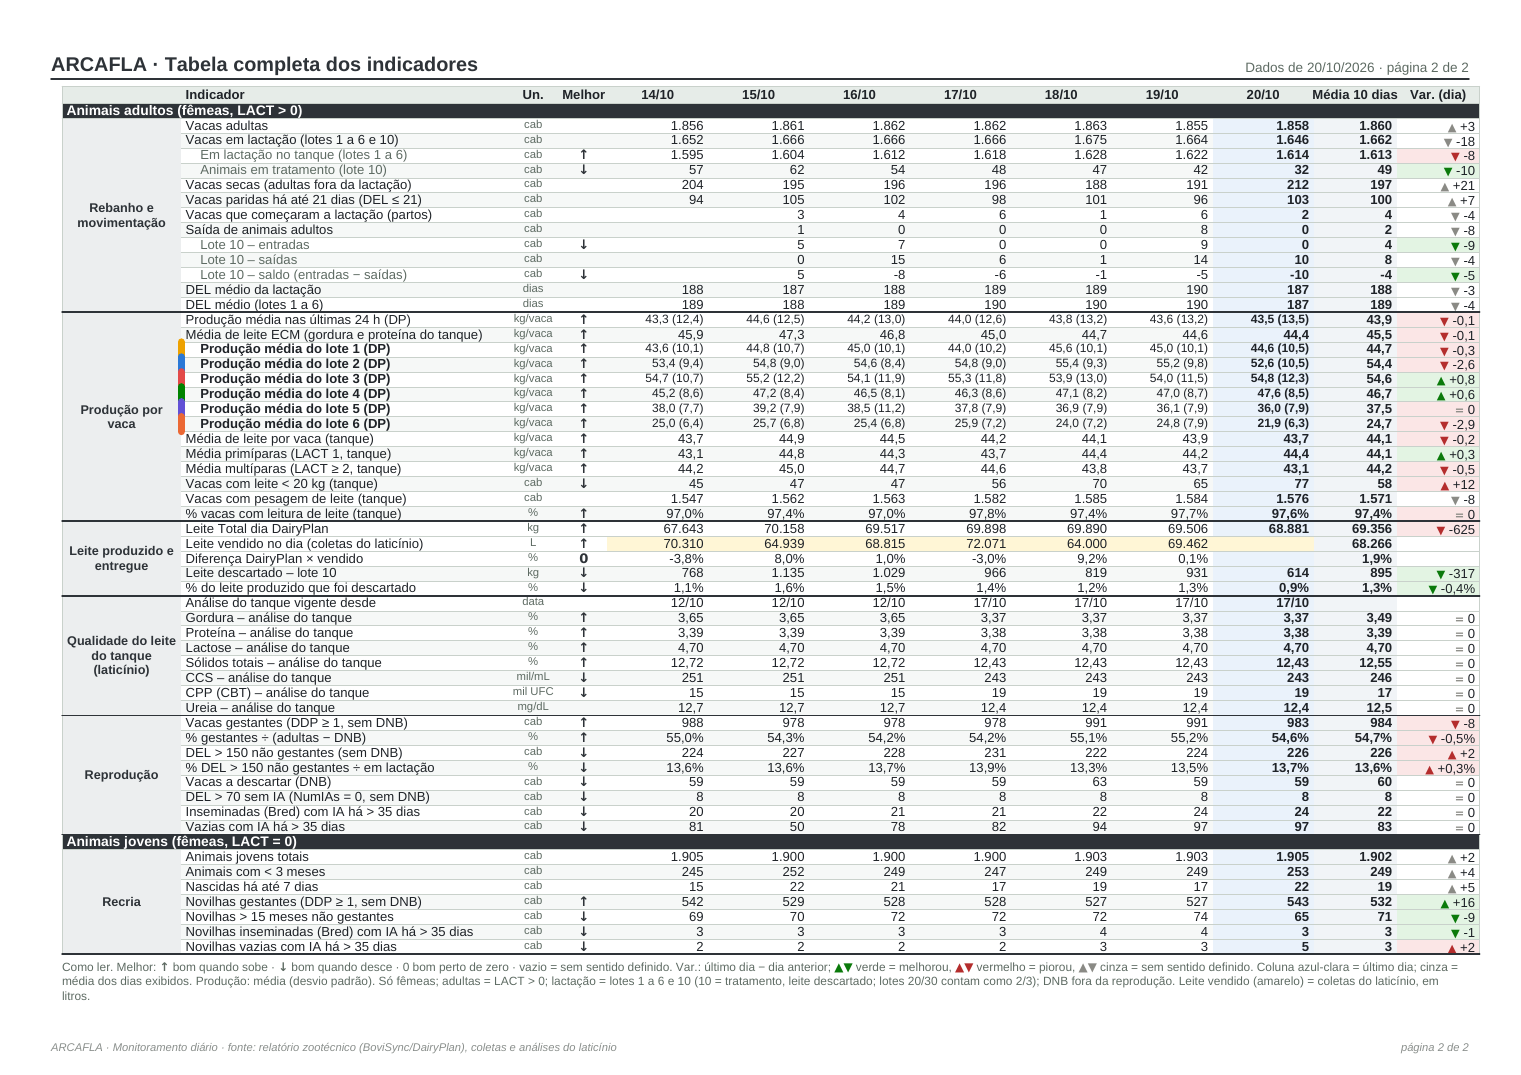
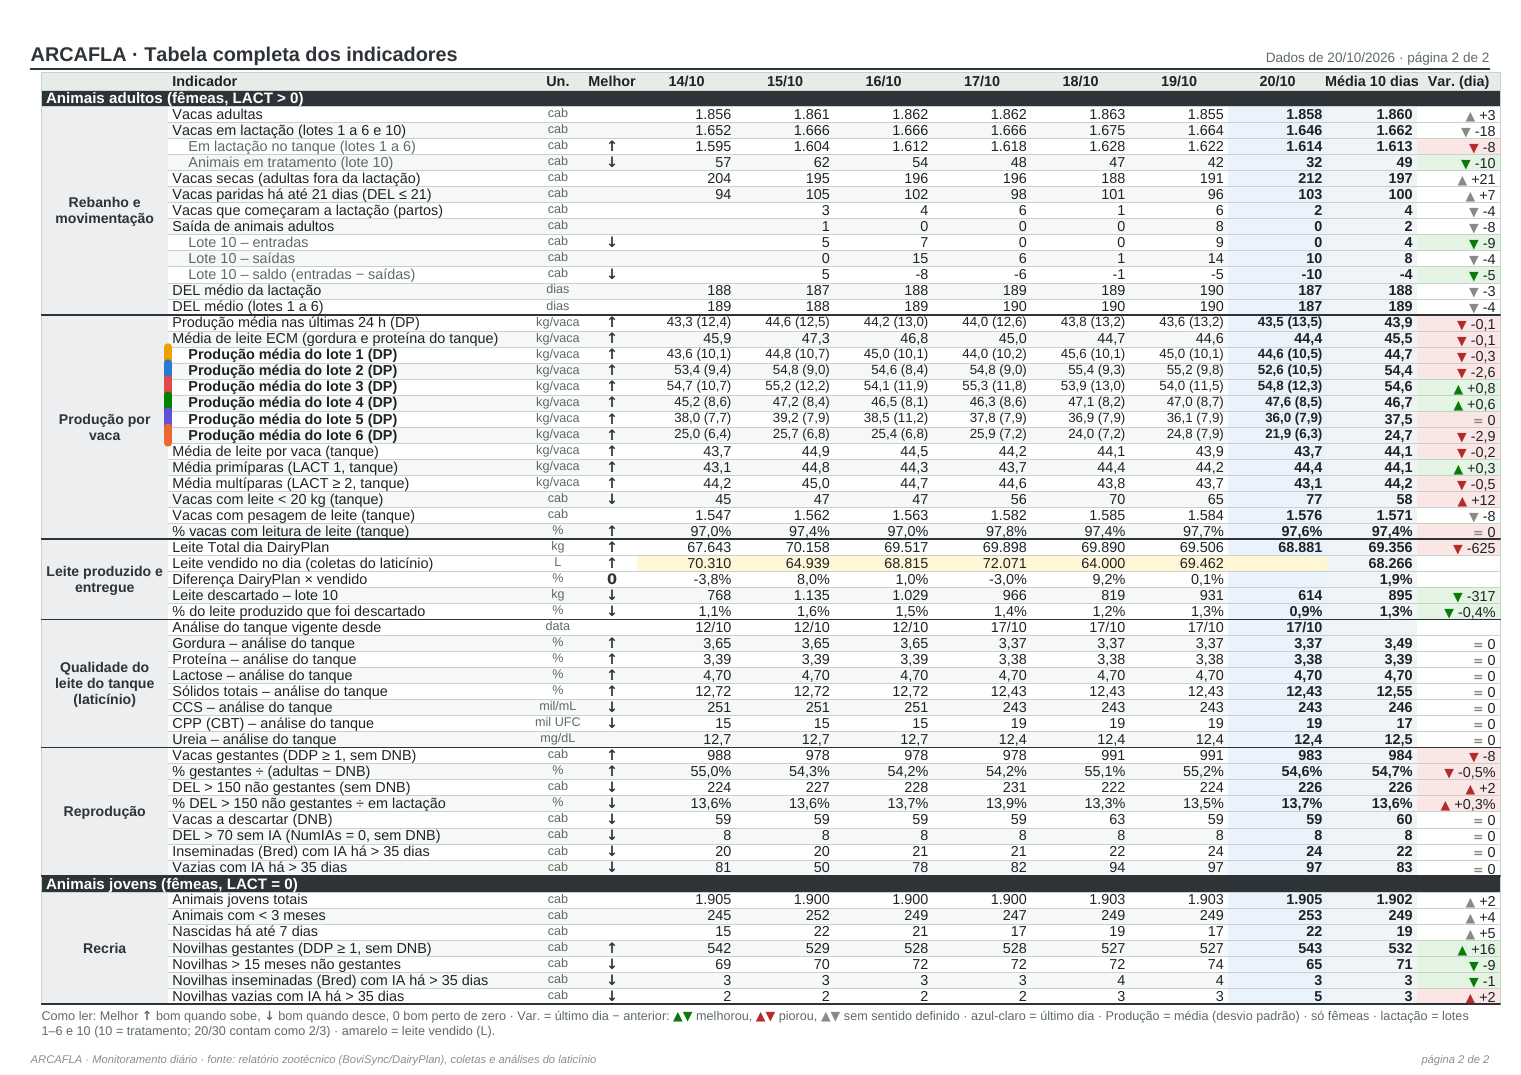
PDF ARCAFLA: fontes maiores, margens e espaços reduzidos, alertas em duas colunas
Claude-Session: https://claude.ai/code/session_01E6SmznsG4fwjxZt5rHRDBH

diff --git a/scripts/monitor_pdf.py b/scripts/monitor_pdf.py
@@ -65,9 +65,9 @@ BOM_BG = colors.HexColor("#E3F4E3")
 RUIM_BG = colors.HexColor("#FBE6E6")
 MM = 2.835
 PAG = landscape(A4)
-MARG = 10 * MM
+MARG = 6 * MM
 LARG = PAG[0] - 2 * MARG
-ALTP = PAG[1] - 2 * 7 * MM
+ALTP = PAG[1] - 2 * 5 * MM
 
 
 # ---------------------------------------------------------------- formatação
@@ -180,20 +180,20 @@ def est(nome, fonte="Lib", tam=7, cor=TINTA, lead=None, al=0):
                           alignment=al)
 
 
-st_cab = est("cab", "LibB", 17, colors.white, 19)
-st_cab2 = est("cab2", "Lib", 8.5, colors.HexColor("#C9CDD1"), 10.5)
-st_cabd = est("cabd", "LibB", 10, colors.white, 12, 2)
-st_k = est("k", "LibB", 6.6, TINTA2, 7.8)
-st_kv = est("kv", "LibB", 17, TINTA, 18.5)
-st_ks = est("ks", "Lib", 6.5, TINTA2, 7.8)
-st_gt = est("gt", "LibB", 8, TINTA, 9.5)
-st_gs = est("gs", "Lib", 6.3, TINTA2, 7.5)
-st_at = est("at", "Lib", 7.2, TINTA, 9.2)
-st_ath = est("ath", "LibB", 8, RUIM, 9.5)
+st_cab = est("cab", "LibB", 18, colors.white, 19)
+st_cab2 = est("cab2", "Lib", 9.5, colors.HexColor("#C9CDD1"), 10.5)
+st_cabd = est("cabd", "LibB", 12, colors.white, 14, 2)
+st_k = est("k", "LibB", 7.6, TINTA2, 8.8)
+st_kv = est("kv", "LibB", 20, TINTA, 21)
+st_ks = est("ks", "Lib", 7.4, TINTA2, 8.6)
+st_gt = est("gt", "LibB", 9.5, TINTA, 11)
+st_gs = est("gs", "Lib", 7.3, TINTA2, 8.6)
+st_at = est("at", "Lib", 8.4, TINTA, 10.4)
+st_ath = est("ath", "LibB", 9.5, RUIM, 11)
 st_t2 = est("t2", "LibB", 11, AZUL, 13)
 st_d2 = est("d2", "Lib", 7.5, TINTA2, 9, 2)
-st_leg = est("leg", "Lib", 6.6, TINTA2, 8)
-st_bl = est("bl", "LibB", 7, AZUL, 8, 1)
+st_leg = est("leg", "Lib", 7, TINTA2, 8.4)
+st_bl = est("bl", "LibB", 7.8, AZUL, 9, 1)
 
 
 def var_html(it, tam):
@@ -222,9 +222,12 @@ def escala(vals, zero=False, folga=0.12):
 
 
 def eixo_x(d, x0, y0, larg, n, rotulos):
+    passo = 1 if larg / n >= 30 else 2  # em gráficos estreitos, uma data sim, outra não
     for i, r in enumerate(rotulos):
+        if (n - 1 - i) % passo:
+            continue
         x = x0 + (larg * (i + 0.5) / n)
-        d.add(String(x, y0 - 9, r, fontName="Lib", fontSize=6, fillColor=TINTA3, textAnchor="middle"))
+        d.add(String(x, y0 - 10, r, fontName="Lib", fontSize=7, fillColor=TINTA2, textAnchor="middle"))
 
 
 def grade_y(d, x0, y0, larg, alt, lo, hi, nf, ticks=3):
@@ -232,7 +235,7 @@ def grade_y(d, x0, y0, larg, alt, lo, hi, nf, ticks=3):
         v = lo + (hi - lo) * t / ticks
         y = y0 + alt * t / ticks
         d.add(Line(x0, y, x0 + larg, y, strokeColor=GRADE, strokeWidth=0.5))
-        d.add(String(x0 - 3, y - 2, fmt(v, nf), fontName="Lib", fontSize=5.8, fillColor=TINTA3, textAnchor="end"))
+        d.add(String(x0 - 3, y - 2, fmt(v, nf), fontName="Lib", fontSize=6.8, fillColor=TINTA2, textAnchor="end"))
 
 
 def grafico_linhas(series, w, h, nf, nf_rot=None, zero=False):
@@ -258,7 +261,7 @@ def grafico_linhas(series, w, h, nf, nf_rot=None, zero=False):
         if rotulos[i][1] - rotulos[i - 1][1] < 8:
             rotulos[i][1] = rotulos[i - 1][1] + 8
     for x, y, txt in rotulos:
-        d.add(String(x0 + larg + 4, y - 2, txt, fontName="LibB", fontSize=6.6, fillColor=TINTA))
+        d.add(String(x0 + larg + 4, y - 2.5, txt, fontName="LibB", fontSize=8, fillColor=TINTA))
     return d
 
 
@@ -272,7 +275,7 @@ def grafico_barras(rotulos, vals, w, h, nf, cor=S1, erros=None, destaque_ult=Fal
     bw = larg / n * 0.56
     for i, v in enumerate(vals):
         cx = x0 + larg * (i + 0.5) / n
-        d.add(String(cx, y0 - 9, rotulos[i], fontName="Lib", fontSize=6, fillColor=TINTA3, textAnchor="middle"))
+        d.add(String(cx, y0 - 10, rotulos[i], fontName="Lib", fontSize=7, fillColor=TINTA2, textAnchor="middle"))
         if v is None:
             continue
         c = (cores[i] if cores else cor)
@@ -286,7 +289,7 @@ def grafico_barras(rotulos, vals, w, h, nf, cor=S1, erros=None, destaque_ult=Fal
             d.add(Line(cx, y0 + hb - e, cx, y0 + hb + e, strokeColor=TINTA2, strokeWidth=0.7))
             d.add(Line(cx - 2.5, y0 + hb + e, cx + 2.5, y0 + hb + e, strokeColor=TINTA2, strokeWidth=0.7))
             topo_txt = y0 + hb + e + 2
-        d.add(String(cx, topo_txt, fmt(v, nf), fontName="LibB", fontSize=6.4, fillColor=TINTA, textAnchor="middle"))
+        d.add(String(cx, topo_txt, fmt(v, nf), fontName="LibB", fontSize=8, fillColor=TINTA, textAnchor="middle"))
     return d
 
 
@@ -351,14 +354,14 @@ def cartao(titulo, rot, extra, w):
         valor += f' <font size="7" color="#5E6B63">({dias[k]:%d/%m})</font>'
     j = juizo(it["melhor"], it["var"])
     l2 = var_html(it, 7.5)
-    l2 = (l2 + " vs dia anterior") if l2 else '<font color="#8A8A85">sem dia anterior</font>'
+    l2 = (l2 + " vs ontem") if l2 else '<font color="#8A8A85">sem dia anterior</font>'
     if it["media"] not in (None, ""):
-        l2 += f' · média {fmt(it["media"], it["mfmt"])}'
+        l2 += f' · méd. {fmt(it["media"], it["mfmt"])}'
     if extra:
         l2 += f"<br/>{extra}"
     corpo = Table([[Paragraph(titulo.upper(), st_k)], [Paragraph(valor, st_kv)], [Paragraph(l2, st_ks)],
                    [sparkline([num(v) for v in it["vals"]], w - 12, 13, cor_juizo(j))]],
-                  colWidths=[w - 4], rowHeights=[9, 19, 17, 14])
+                  colWidths=[w - 4], rowHeights=[10, 22, 20, 14])
     corpo.setStyle(TableStyle([("LEFTPADDING", (0, 0), (-1, -1), 6), ("RIGHTPADDING", (0, 0), (-1, -1), 2),
                                ("TOPPADDING", (0, 0), (-1, -1), 0), ("BOTTOMPADDING", (0, 0), (-1, -1), 0),
                                ("VALIGN", (0, 0), (-1, -1), "MIDDLE")]))
@@ -379,17 +382,17 @@ CW = LARG / 6
 cards = [
     cartao("Vacas em lactação", "Vacas em lactação (lotes 1 a 6 e 10)",
            f'no tanque: {v_ult("Em lactação no tanque (lotes 1 a 6)", "0")}', CW),
-    cartao("Produção média 24 h (kg/vaca)", "Produção média nas últimas 24 h (DP)",
+    cartao("Produção 24 h (kg/vaca)", "Produção média nas últimas 24 h (DP)",
            f'ECM: <b>{v_ult("Média de leite ECM (gordura e proteína do tanque)", "0.0")} kg</b>', CW),
     cartao("DairyPlan × leite vendido", "Diferença DairyPlan × vendido", dif_txt, CW),
-    cartao("Vacas gestantes (sem DNB)", "% gestantes ÷ (adultas − DNB)",
+    cartao("Gestantes (sem DNB)", "% gestantes ÷ (adultas − DNB)",
            f'{v_ult("Vacas gestantes (DDP ≥ 1, sem DNB)", "0")} vacas gestantes', CW),
     cartao("Em tratamento (lote 10)", "Animais em tratamento (lote 10)",
            f'leite descartado: {v_ult("Leite descartado – lote 10", "#,##0")} kg', CW),
     cartao("Vazias com IA há > 35 dias", "Vazias com IA há > 35 dias",
            f'inseminadas há > 35 dias: {v_ult("Inseminadas (Bred) com IA há > 35 dias", "0")}', CW),
 ]
-painel = Table([cards], colWidths=[CW] * 6, rowHeights=[64])
+painel = Table([cards], colWidths=[CW] * 6, rowHeights=[70])
 painel.setStyle(TableStyle([("BOX", (0, 0), (-1, -1), 0.6, LINHA), ("INNERGRID", (0, 0), (-1, -1), 0.6, LINHA),
                             ("BACKGROUND", (0, 0), (-1, -1), colors.white), ("VALIGN", (0, 0), (-1, -1), "TOP"),
                             ("LEFTPADDING", (0, 0), (-1, -1), 1), ("RIGHTPADDING", (0, 0), (-1, -1), 1),
@@ -397,7 +400,7 @@ painel.setStyle(TableStyle([("BOX", (0, 0), (-1, -1), 0.6, LINHA), ("INNERGRID",
 
 # ---------------------------------------------------------------- página 1: gráficos
 G1W, G2W = LARG * 0.58 - 3, LARG * 0.42 - 3
-GH1 = 150
+GH1 = 172
 g_prod = caixa("Produção por vaca nos últimos dias",
                legenda_series([("Produção média 24 h", S1), ("Leite ECM (gordura e proteína do tanque)", S2)])
                + " · kg/vaca",
@@ -414,7 +417,7 @@ g_lote = caixa(f"Produção por lote em {ultimo:%d/%m}",
                G2W)
 
 G3W = LARG / 4 - 4.5
-GH2 = 122
+GH2 = 140
 dp_s, vd_s = serie("Leite Total dia DairyPlan"), serie("Leite vendido no dia (coletas do laticínio)")
 dif = itens.get("Diferença DairyPlan × vendido")
 dif_med = fmt(dif["media"], dif["mfmt"]) if dif and dif["media"] not in (None, "") else "–"
@@ -430,7 +433,7 @@ g_20 = caixa("Vacas com leite abaixo de 20 kg",
 g_gest = caixa("Vacas gestantes (% sem DNB)", "Gestantes ÷ (adultas − DNB) · bom quando sobe",
                grafico_linhas([("gest", serie("% gestantes ÷ (adultas − DNB)"), S1)], G3W - 10, GH2, "0.0%"), G3W)
 g_rep = caixa("Atrasos reprodutivos",
-              legenda_series([("Vazias com IA > 35 dias", S2), ("DEL > 150 não gestantes", S1)]) + " · cab",
+              legenda_series([("Vazias IA > 35 d", S2), ("DEL > 150 não gest.", S1)]),
               grafico_linhas([("vaz", serie("Vazias com IA há > 35 dias"), S2),
                               ("ng", serie("DEL > 150 não gestantes (sem DNB)"), S1)], G3W - 10, GH2, "0"), G3W)
 
@@ -458,10 +461,15 @@ def atencao(max_n=6):
 
 
 at = atencao()
-txt_at = "<br/>".join(at) if at else "Nenhum indicador piorou em relação ao dia anterior."
-quadro_at = Table([[Paragraph("Atenção hoje – o que mais piorou", st_ath)], [Paragraph(txt_at, st_at)]],
-                  colWidths=[LARG])
-quadro_at.setStyle(TableStyle([("BACKGROUND", (0, 0), (-1, -1), colors.HexColor("#FDF3F3")),
+if at:  # duas colunas para ocupar menos altura
+    meio = (len(at) + 1) // 2
+    col_at = [Paragraph("<br/>".join(at[:meio]), st_at), Paragraph("<br/>".join(at[meio:]), st_at)]
+else:
+    col_at = [Paragraph("Nenhum indicador piorou em relação ao dia anterior.", st_at), ""]
+quadro_at = Table([[Paragraph("Atenção hoje – o que mais piorou", st_ath), ""], col_at],
+                  colWidths=[LARG / 2, LARG / 2])
+quadro_at.setStyle(TableStyle([("SPAN", (0, 0), (-1, 0)), ("VALIGN", (0, 0), (-1, -1), "TOP"),
+                               ("BACKGROUND", (0, 0), (-1, -1), colors.HexColor("#FDF3F3")),
                                ("LINEBEFORE", (0, 0), (0, -1), 3, RUIM), ("LEFTPADDING", (0, 0), (-1, -1), 8),
                                ("TOPPADDING", (0, 0), (-1, -1), 2), ("BOTTOMPADDING", (0, 0), (-1, -1), 3)]))
 
@@ -480,8 +488,8 @@ NC = len(cabec)
 CDIA0, CMED = 4, 4 + ND
 CVAR = CMED + 1 if vcol else None
 n_linhas = 1 + sum(1 for l in linhas if l["tipo"] != "bloco")
-ALT = min(10.5, (ALTP - 22 - 40 - 14) / n_linhas)
-FS = min(7.8, ALT - 1.0)
+ALT = min(11, (ALTP - 20 - 22 - 10) / n_linhas)
+FS = min(8.4, ALT - 0.9)
 st_c = est("c", "Lib", FS, TINTA, FS + 0.3, 2)
 dados = [cabec]
 estilo = [
@@ -552,7 +560,7 @@ for ini, fim, rot in blocos:
     estilo += [("SPAN", (0, ini), (0, fim)), ("BACKGROUND", (0, ini), (0, fim), AZUL_CLARO),
                ("LINEBELOW", (0, fim), (-1, fim), 0.8, AZUL)]
 
-w_bl, w_un, w_mel, w_med, w_rot = 66, 30, 26, 46, 180
+w_bl, w_un, w_mel, w_med, w_rot = 70, 32, 28, 50, 200
 w_var = 46 if vcol else 0
 w_dia = min((LARG - w_bl - w_rot - w_un - w_mel - w_med - w_var) / ND, 60)
 tab = Table(dados, colWidths=[w_bl, w_rot, w_un, w_mel] + [w_dia] * ND + [w_med] + ([w_var] if vcol else []),
@@ -561,14 +569,11 @@ tab.setStyle(TableStyle(estilo))
 tab.hAlign = "LEFT"
 
 legenda = Paragraph(
-    "<b>Como ler.</b> <b>Melhor</b>: <font name='Sym'>↑</font> bom quando sobe · <font name='Sym'>↓</font> "
-    "bom quando desce · <b>0</b> bom perto de zero · vazio = sem sentido definido. "
-    "<b>Var.</b>: último dia − dia anterior; <font name='Sym' color='#0B7A0B'>▲▼</font> verde = melhorou, "
-    "<font name='Sym' color='#B42D2D'>▲▼</font> vermelho = piorou, <font name='Sym' color='#8A8A85'>▲▼</font> "
-    "cinza = sem sentido definido. Coluna azul-clara = último dia; cinza = média dos dias exibidos. "
-    "Produção: média (desvio padrão). Só fêmeas; adultas = LACT &gt; 0; lactação = lotes 1 a 6 e 10 "
-    "(10 = tratamento, leite descartado; lotes 20/30 contam como 2/3); DNB fora da reprodução. "
-    "Leite vendido (amarelo) = coletas do laticínio, em litros.", st_leg)
+    "<b>Como ler:</b> Melhor <font name='Sym'>↑</font> bom quando sobe, <font name='Sym'>↓</font> bom quando desce, "
+    "<b>0</b> bom perto de zero · Var. = último dia − anterior: <font name='Sym' color='#0B7A0B'>▲▼</font> melhorou, "
+    "<font name='Sym' color='#B42D2D'>▲▼</font> piorou, <font name='Sym' color='#8A8A85'>▲▼</font> sem sentido "
+    "definido · azul-claro = último dia · Produção = média (desvio padrão) · só fêmeas · lactação = lotes 1–6 e 10 "
+    "(10 = tratamento; 20/30 contam como 2/3) · amarelo = leite vendido (L).", st_leg)
 
 
 # ---------------------------------------------------------------- cabeçalhos e montagem
@@ -599,17 +604,17 @@ def rodape(c, d):
     c.saveState()
     c.setFont("LibI", 6.2)
     c.setFillColor(TINTA3)
-    c.drawString(MARG, 4.5 * MM, "ARCAFLA · Monitoramento diário · fonte: relatório zootécnico (BoviSync/DairyPlan), "
+    c.drawString(MARG, 2.2 * MM, "ARCAFLA · Monitoramento diário · fonte: relatório zootécnico (BoviSync/DairyPlan), "
                                  "coletas e análises do laticínio")
-    c.drawRightString(PAG[0] - MARG, 4.5 * MM, f"página {d.page} de 2")
+    c.drawRightString(PAG[0] - MARG, 2.2 * MM, f"página {d.page} de 2")
     c.restoreState()
 
 
 OUT = os.path.join(os.path.dirname(XLSX), f"Monitoramento_Diario_ARCAFLA_{ultimo:%Y-%m-%d}.pdf")
-doc = SimpleDocTemplate(OUT, pagesize=PAG, leftMargin=MARG, rightMargin=MARG, topMargin=7 * MM,
-                        bottomMargin=7 * MM, title=f"ARCAFLA – Monitoramento diário {ultimo:%d/%m/%Y}")
-doc.build([cabecalho_p1(), Spacer(1, 6), painel, Spacer(1, 7), linha1, Spacer(1, 7), linha2, Spacer(1, 7),
-           quadro_at, PageBreak(), cabecalho_p2(), Spacer(1, 4), tab, Spacer(1, 3), legenda],
+doc = SimpleDocTemplate(OUT, pagesize=PAG, leftMargin=MARG, rightMargin=MARG, topMargin=5 * MM,
+                        bottomMargin=5 * MM, title=f"ARCAFLA – Monitoramento diário {ultimo:%d/%m/%Y}")
+doc.build([cabecalho_p1(), Spacer(1, 4), painel, Spacer(1, 5), linha1, Spacer(1, 5), linha2, Spacer(1, 5),
+           quadro_at, PageBreak(), cabecalho_p2(), Spacer(1, 2), tab, Spacer(1, 2), legenda],
           onFirstPage=rodape, onLaterPages=rodape)
 from pypdf import PdfReader  # noqa: E402
 
